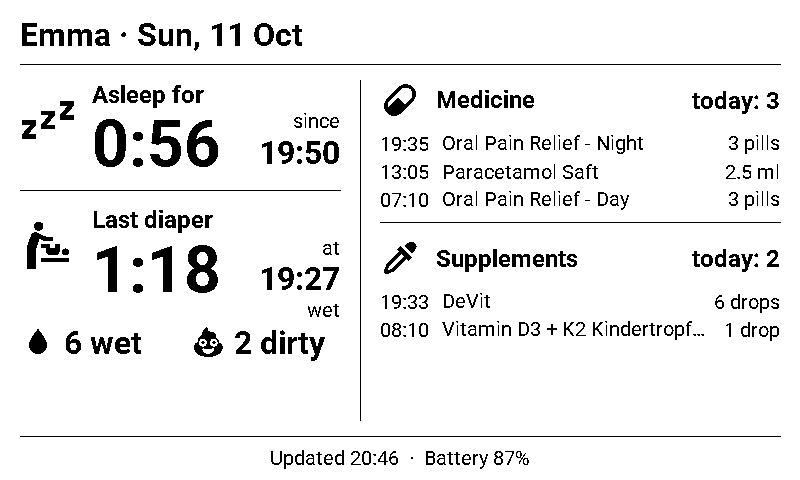
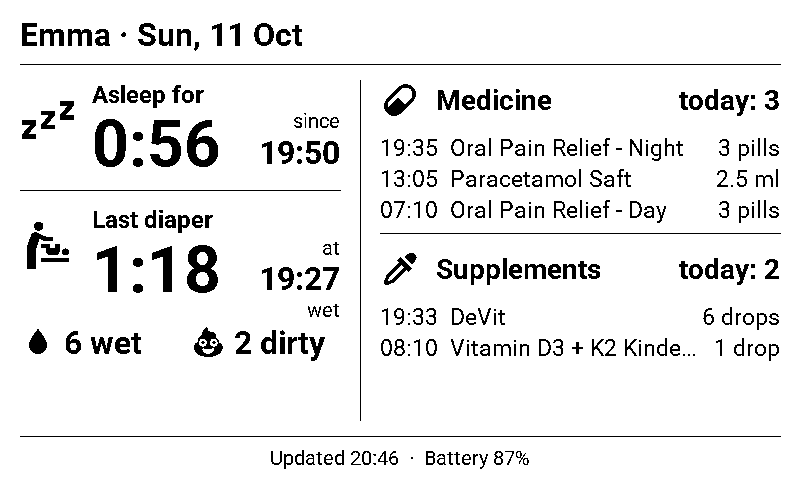
Landscape: larger medicine and supplement entries and headings
Entries 20 -> 23 px, headings 24 -> 28 px so they stand above the
entries; up to 3 entries per list. Portrait is unchanged.

diff --git a/CHANGELOG.md b/CHANGELOG.md
@@ -5,7 +5,7 @@ All notable changes, newest first. Versions follow [semantic versioning](https:/
 ## Unreleased
 
 ### Added
-- **Landscape layout**: the page can also be shown in landscape, with sleep and diapers on the left and medicine and supplements on the right (in a slightly smaller font, so names fit). A **Landscape** switch on the X4's device page, mirrored by `input_boolean.xteink_x4_landscape`, switches between landscape and portrait without reflashing — at once while the X4 is awake, otherwise at the next wake. Set the exact rotations with `landscape_rotation` / `portrait_rotation` in `esphome/xteink-x4.yaml`.
+- **Landscape layout**: the page can also be shown in landscape, with sleep and diapers on the left and medicine and supplements on the right (entries at 23 px under 28 px headings, so names fit the narrower column; up to 3 entries each). A **Landscape** switch on the X4's device page, mirrored by `input_boolean.xteink_x4_landscape`, switches between landscape and portrait without reflashing — at once while the X4 is awake, otherwise at the next wake. Set the exact rotations with `landscape_rotation` / `portrait_rotation` in `esphome/xteink-x4.yaml`.
 - **Battery voltage** as its own sensor (`sensor.xteink_x4_battery_voltage`, V) — steadier than the percentage for following the battery over days.
 
 ### Under the hood
